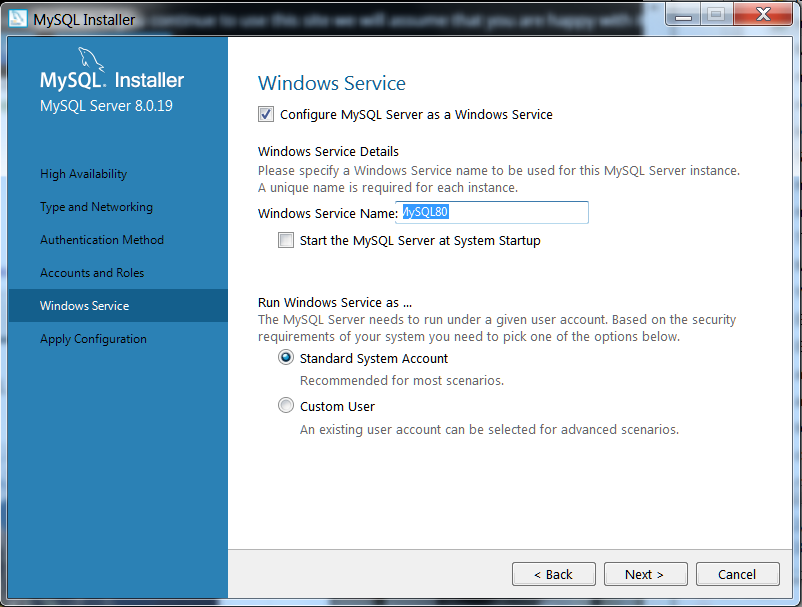
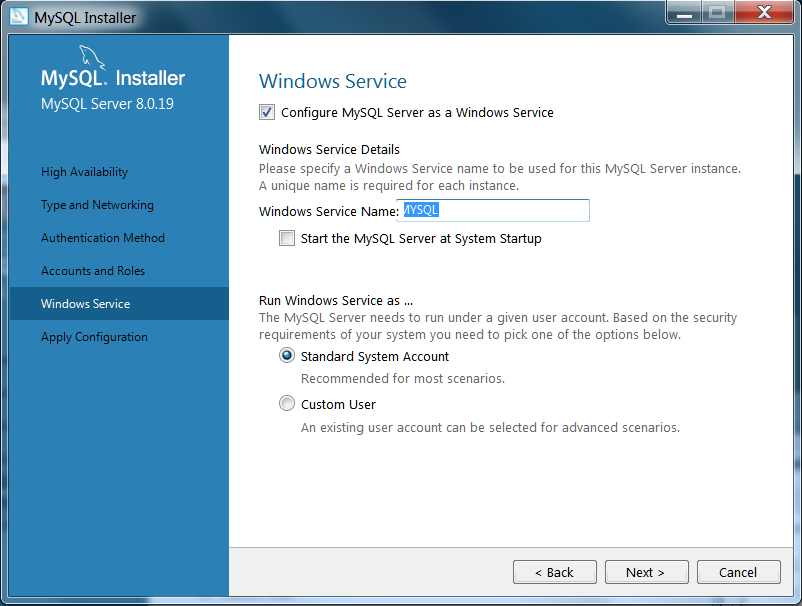
Add MySQL Windows installation instructions

diff --git a/orion/README.md b/orion/README.md
@@ -26,21 +26,14 @@ go version
 This will print out the OS and library version of your Golang.
 
 ## Install MySQL
-Download MySQL from [here](https://dev.mysql.com/downloads/mysql/). Select your operating system and download the first MySQL app. For MacOS, you should be selecting the DMG Archive. For Windows, download the ZIP Archive. From there, follow the instructions to completely install MySQL.
+The following instructions differ between MacOS and Windows developers. Please skip to the appropriate section.
 
-**The installer may ask you for a MySQL password. Please remember this password!**
+### Installing MySQL (MacOS)
+Download MySQL from [here](https://dev.mysql.com/downloads/mysql/). Select Operating System macOS and download the first macOS DMG Archive.
+**The installer may prompt you for a MySQL password. Please remember this password!**
 
-Once finished installing, test it here:
-```
-mysql --user=root --password
-```
-* If you get a command not found, do the following below. Otherwise, skip this section.
-------
-### If MySQL command is not found...
-Looks like we'll have to add `mysql` to our environment variables.
-
-#### For Mac users...
-Edit this file by typing
+After installation, we'll need to set our environment variables so your computer can use `mysql` from the Terminal.
+Open up Terminal and edit this file by typing
 ```
 vi .bash_profile
 ```
@@ -60,16 +53,12 @@ Run this command:
 source .bash_profile
 ```
 
-And we can try this command one more time to see if mysql now works.
+And we can try this command to see if mysql works.
 ```
-mysql --user=root --password
+mysql --version
 ```
+If no errors, our environment variables are setup correctly! We can start working with mysql.
 
-#### For Windows users... (coming soon!)
-...
-
-------
-### If MySQL command is found...
 Run this command:
 ```
 mysql --user=root --password
@@ -92,8 +81,53 @@ mysql.server stop
 mysql.server restart
 ```
 ------
+### Installing MySQL (Windows)
+Download MySQL from [here](https://dev.mysql.com/downloads/windows/installer/). Download the latest and smaller MSI Installer.
+*NOTE* the instructions in this article may be outdated as they use an older version of Windows and MySQL. However, the installation process should still be similar.
+ - Once finished downloading the installer, double click it to start the installation process.
+ - `Choosing a Setup Type` Select **Custom**
+ - `Select Products and Features` Select the following: latest MySQL Server, latest MySQL Workbench (under Applications), MySQL Shell (also under Applications). Press Next.
+ - `Installation` Execute! You should be downloading 3 products (Server, Workbench, Shell). Once finished Downloading and Installing, press Next.
+ - You'll need to configure MySQL Server.
+   - `High Availability` Select Standalone MySQL Server.
+   - `Type and Networking` Make sure the Config Type is `Development Computer` and make sure you have TCP/IP checked, and Port: 3306.
+ ![alt text](https://github.com/ahsu1230/mathnavigatorSite/tree/master/orion/onboarding/mysql_1_installer_networking.png)
+ - `Authentication Method` Select the Recommended Strong Password Encryption.
+ - `Account and Roles` Create a MySQL password. **Please remember this password!**
+  ![alt text](https://github.com/ahsu1230/mathnavigatorSite/tree/master/orion/onboarding/mysql_2_accounts.png)
+ - `Windows Service` Under Windows Service Name, remove the numbers and just have the name be: `MYSQL`. In addtion, you can uncheck the `Start the MySQL Server at System Startup`. Tou can also run the Windows Service as the Standard system.
+ - `Apply Configuration` Execute! Finish.
+
+Now that you've installed MySQL, remember these two commands:
+```
+net start MySQL
+net stop MySQL
+```
+There two commands will start or stop your MySQL local server. If the local server is not started, your MySQL will not work.
+
+You can go ahead and open the application MySQL Shell. It will prompt you to enter your MySQL password. 
+ ![alt text](https://github.com/ahsu1230/mathnavigatorSite/tree/master/orion/onboarding/mysql_8_shell.png)
+Once you're in, run this command:
+```
+CREATE SCHEMA mathnavdb;
+exit;
+```
+Congratulations! MySQL is successfully installed.
+
+**BONUS (optional)** You don't need to do this since you've installed the MySQL Shell. But if you would like to work with MySQL from the Command Prompt, you may edit your Environment Variables and include the MySQL path into the Environment Variable `PATH`.
+ - Look for the folder: `C:\Program Files\MySQL\MySQL Server\bin`. Inside this directory, there should be a `mysql.exe`. If it is there, copy the Location to this folder (NOT the .exe). An example Location could be: `C:\Program Files\MySQL\MySql Server 8.0\bin`
+ - From here, go to your computer's `Control Panel` > `System and Security` > `System` > `Advanced system settings` > `Environment Variables`.
+   - Edit the environment variable `PATH`.
+   - Add a semicolon `;` at the end of the value. 
+   - Paste the copied MySQL Location folder
+   - Save by pressing OK
+  ![alt text](https://github.com/ahsu1230/mathnavigatorSite/tree/master/orion/onboarding/mysql_6_environ_var.png)
+ - Open Command Prompt and type `mysql --version` to see if mysql is recognized by the Command Prompt.
+
+------
 
 ## Test back-end webserver
+Before proceeding, double check to make sure your mysql server is running. For MacOs, it is the `mysql.server start` command and for Windows, it is the `net start MySQL`. 
 In your Terminal, go to the `orion` directory. Use `cd` to travers around your file system.
 
 To run all tests of the back-end web server, run:
@@ -101,6 +135,7 @@ To run all tests of the back-end web server, run:
 go test ./...
 ```
 You should see `ok`s and no failures.
+**note (Windows):** The first time you run this command, you may need to run Command Prompt as administrator. Simply close Command, right click the Application and select "Run as administrator"
 
 In the `orion` folder,
  * Create a new folder called `configs`.
